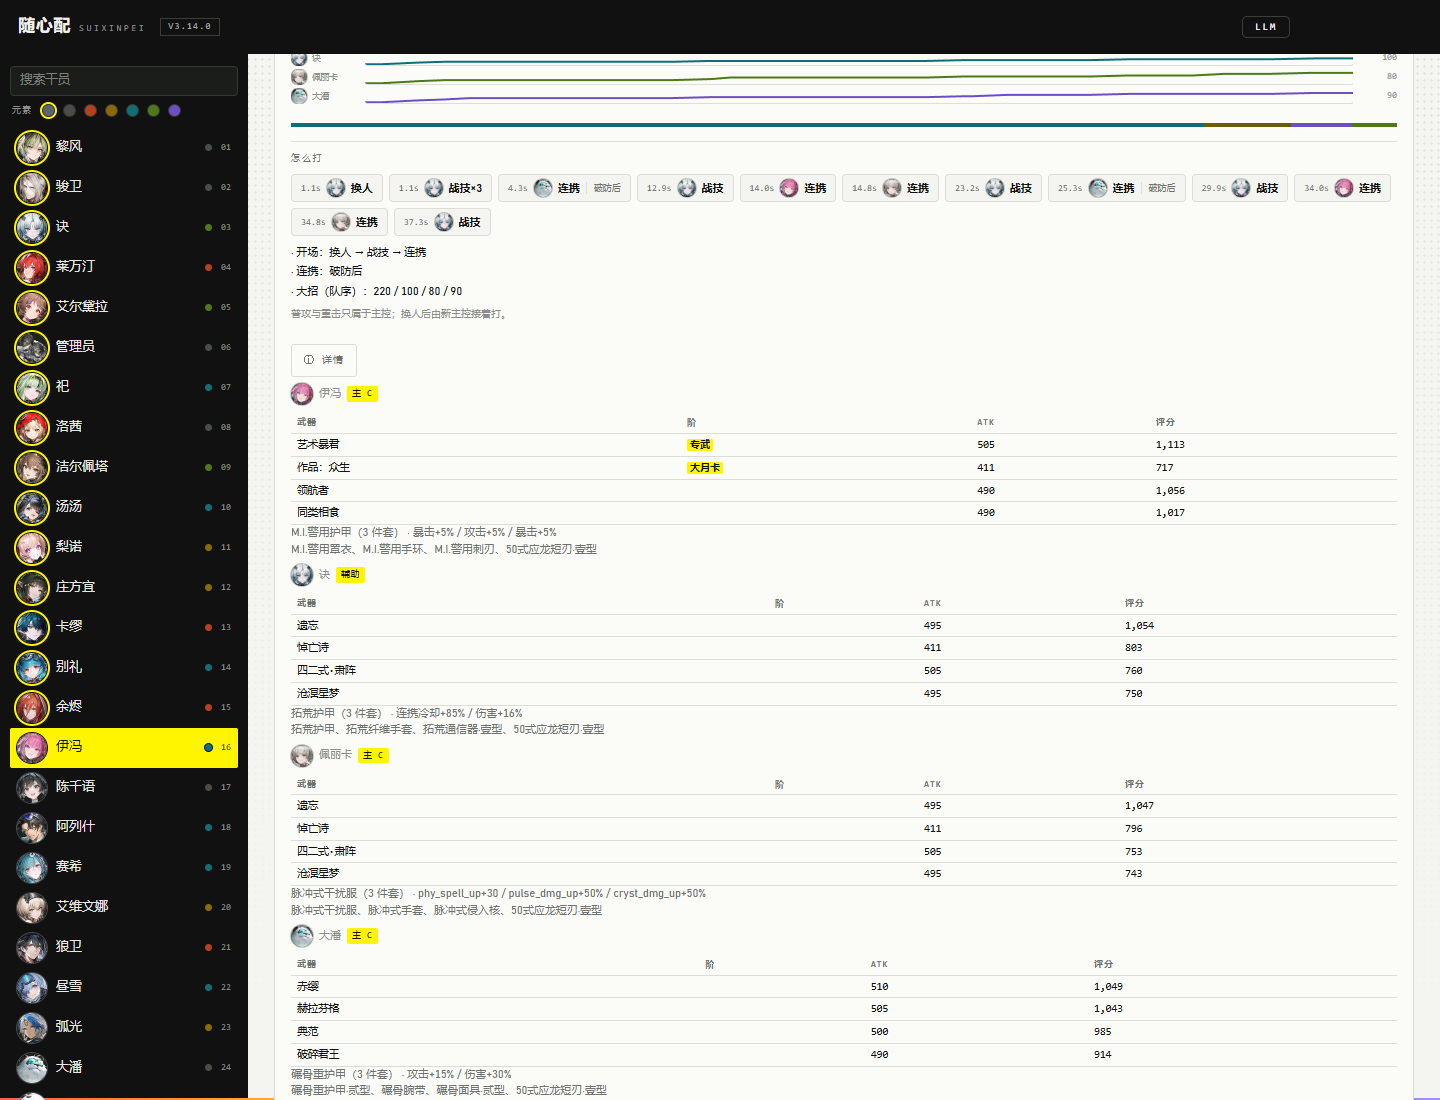
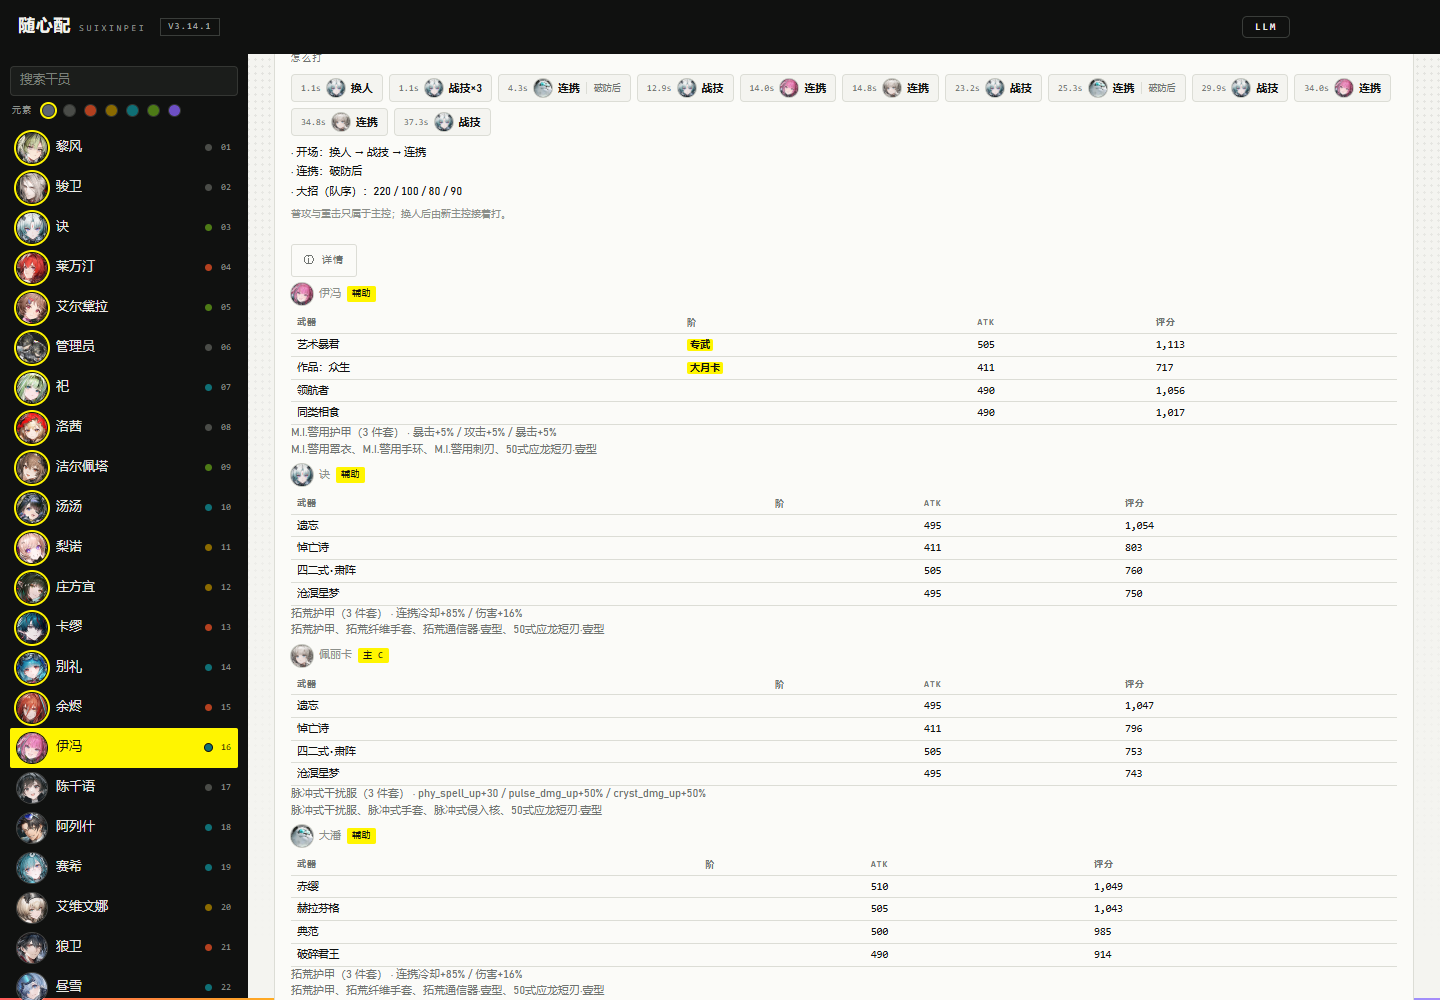
docs: v3.14.1 推荐重写证据

diff --git a/docs/03-进展.md b/docs/03-进展.md
@@ -1178,3 +1178,37 @@ LLM 自检→清空），中文 TTS 解说 + 原创合成"哈基米风" BGM；
[1 lines of base64/hex data omitted]
 | 演示 | `suixinpei-demo.mp4`（1.0MB，无音轨） |
 | 测试 | 146 项全绿 |
+
+---
+
+## 追加轮二十七 · v3.14.x（装备/武器推荐重写）
+
+用户指出：伊冯首推"楔子"而不是专武/大月卡；装备经常不组套装；
+每个角色分输出/功能两套，但队伍固定时定位应固定。
+
+定位到旧实现：
+
+- 武器只按 `ATK + ATK% + 主属性` 排，专武的暴击/元素被动没进分；
+- 装备逐件挑属性，没有"同套 3/4 件"约束；
+- 按个人 tag 判定位，四个人都可能标主 C。
+
+新实现（`src/endfield/search/loadout.py`）：
+
+- 一队只留一个主 C，其余降辅助；治疗/生存保持；
+- 武器 curated 专武 #1、大月卡 #2，其余按被动折算；坐标下降模拟；
+- 装备枚举能触发套装被动的组合，同套补满 4 槽；
+- 整队坐标下降 + 缓存；新增 `docs/LOADOUT.md`、curated 表；
+- 打包时把 `loadout_curated.json` 一起带进 exe。
+
+验收：伊冯 `艺术暴君`（专武）/`作品：众生`（大月卡）/`M.I.警用护甲` 暴击套；
+队伍 伊冯 主 C、洁尔佩塔 辅助、赛希/艾尔黛拉 治疗。
+
+### 发行（v3.14.1）
+
+| 项 | 值 |
+|---|---|
+| 发行版 | https://github.com/starchfurrycon/suixinpei/releases/tag/v3.14.1 （Latest） |
[2 lines of base64/hex data omitted]
+| 演示 | `suixinpei-demo.mp4`（1.0MB，静音） |
+| 测试 | 147 项全绿 |

diff --git a/MEMORY.md b/MEMORY.md
@@ -1,6 +1,6 @@
 # 记忆文件 · 随心配（Suixinpei）
 
-> 最后更新：2026-10-26 · 版本 **v3.13.1**
+> 最后更新：2026-10-26 · 版本 **v3.14.1**
 > 这份文件用来交接：项目是什么、代码在哪、怎么跑、边界在哪、下一步可以做什么。
 
 ## 1. 身份
@@ -8,12 +8,12 @@
 - 软件名 / 仓库：**随心配** / `starchfurrycon/suixinpei`
 - 定位：《明日方舟：终末地》的**配队 + 输出轴**桌面工具
 - 技术栈：Python 3.10+（仅标准库） + 单页 HTML/JS + Electron 便携壳
-- 最新发行：https://github.com/starchfurrycon/suixinpei/releases/tag/v3.13.1
+- 最新发行：https://github.com/starchfurrycon/suixinpei/releases/tag/v3.14.1
 
 | 产物 | 大小 | SHA256 |
 |---|---|---|
[4 lines of base64/hex data omitted]
 
 ## 2. 边界（先读这条）
 
@@ -85,6 +85,7 @@ python tools/package_desktop.py                # 需要 electron + rcedit
 
 ## 7. 近期版本
 
+- v3.14.1 装备/武器推荐重写（专武优先 + 整套 + 一队一个主 C）
 - v3.13.1 演示静音（无配音/无配乐，仅短字幕）
 - v3.13.0 短字幕演示 + BYO API 说明
 - v3.12.0 默认约束版本隔离 + Top3 多样化 + 真实录屏演示

diff --git a/docs/04-验收报告.md b/docs/04-验收报告.md
@@ -498,3 +498,21 @@ Ran 26 tests in 0.57s  OK
 | 浏览器版 | `suixinpei-server-3.13.1-win64.zip`（9,315,937 字节） |
 | 演示 | `suixinpei-demo.mp4`（1.0MB，`ffprobe` 仅 video 流） |
 | 验证 | 146 项测试全绿；打包冒烟；SHA 校验一致 |
+
+---
+
+## v3.14.1 发行证据（推荐重写）
+
+| 项 | 值 |
+|---|---|
+| 发行版 | https://github.com/starchfurrycon/suixinpei/releases/tag/v3.14.1 （Latest） |
[1 lines of base64/hex data omitted]
+| 浏览器版 | `suixinpei-server-3.14.1-win64.zip`（9,325,176 字节） |
+| 验证 | 147 项测试全绿；打包冒烟；SHA 校验一致 |
+
+| 项 | 证据 |
+|---|---|
+| 伊冯专武 | 打包版 `/api/loadout`：`艺术暴君`（专武）→ `作品：众生`（大月卡） |
+| 套装 | `M.I.警用护甲` 暴击套，3 件套效果生效 |
+| 定位 | 一队一个主 C：伊冯 主 C、洁尔佩塔 辅助、赛希/艾尔黛拉 治疗 |
+| 截图 | `docs/screenshots/v3.14-loadout.png` |
